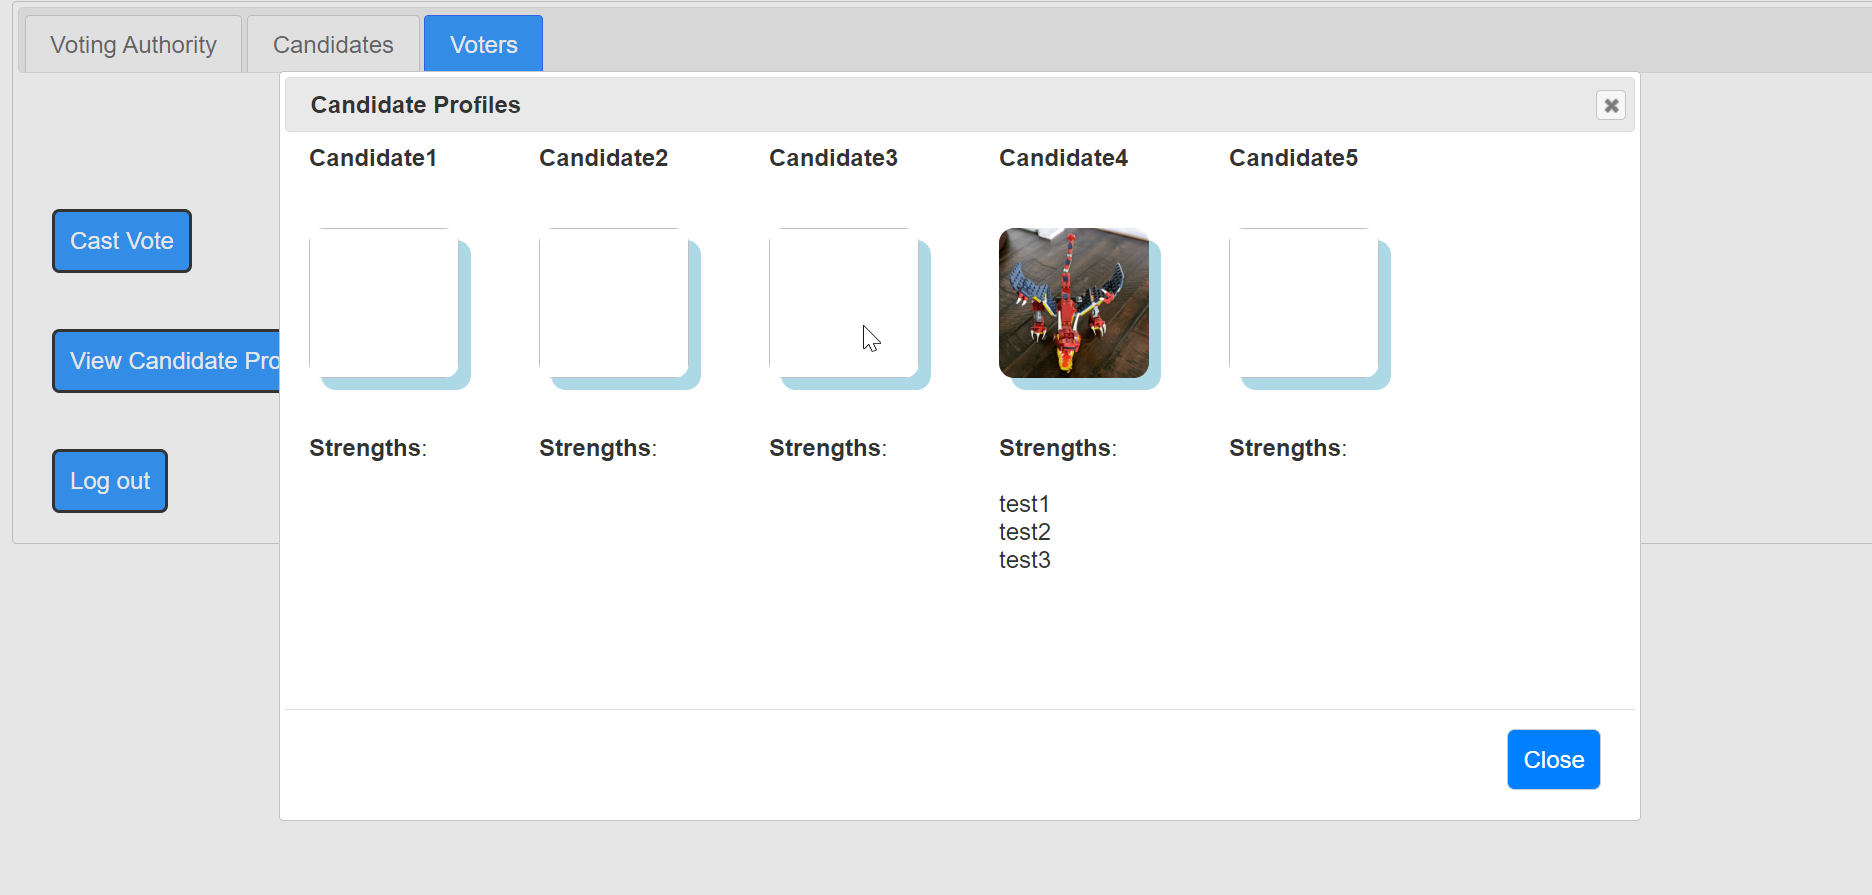
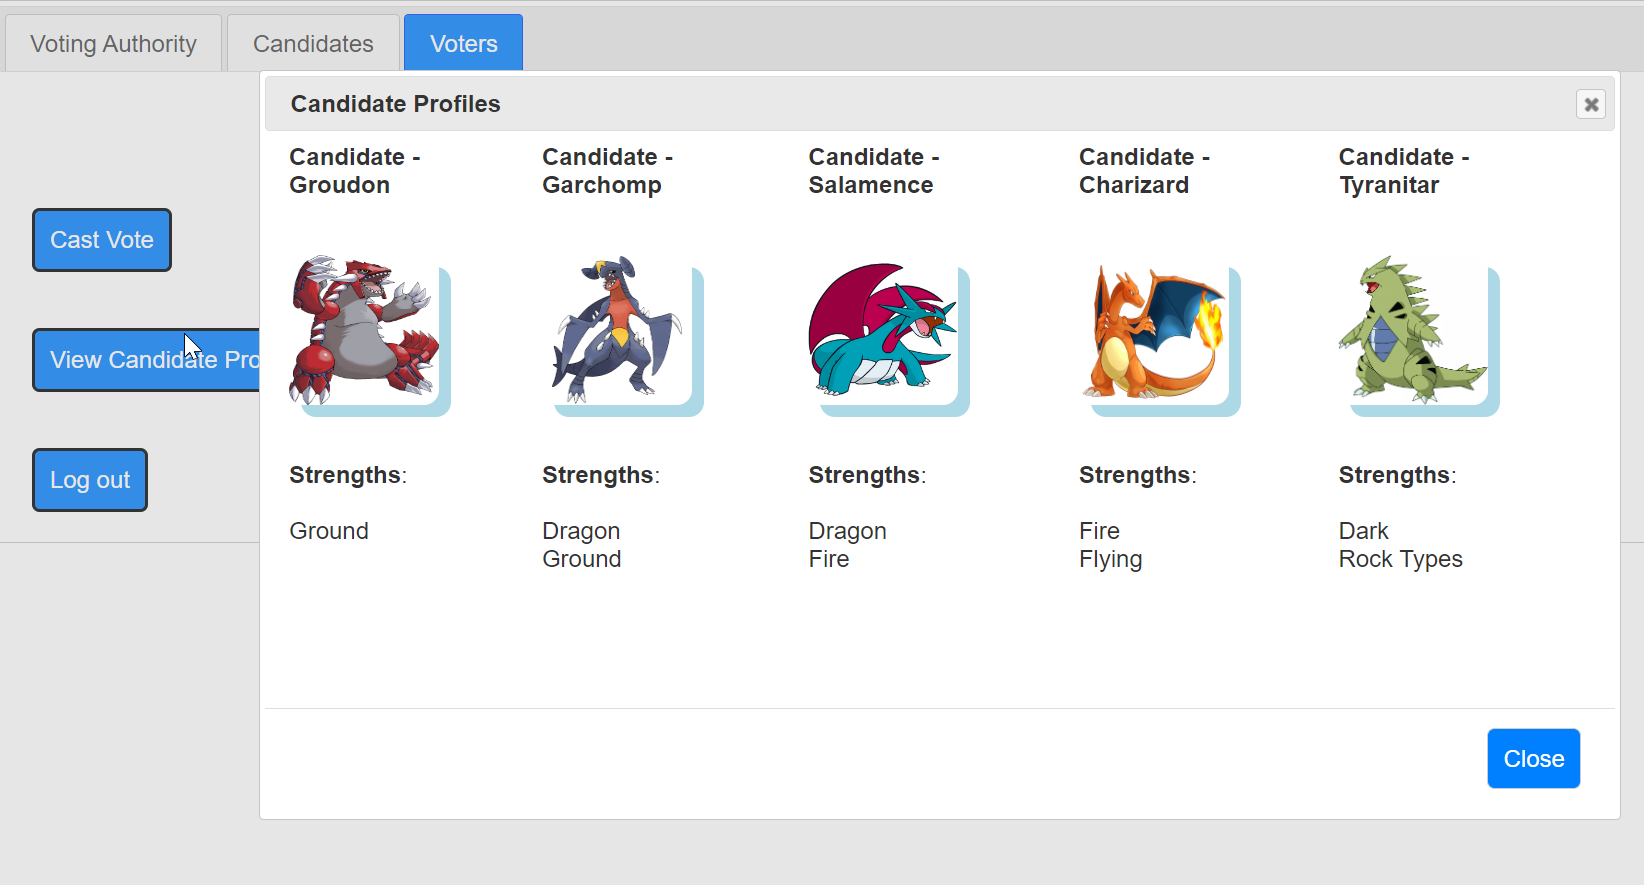
Updates to project repository. Added images, candidate names, candidate profile update feature

diff --git a/js/Candidate.js b/js/Candidate.js
@@ -19,7 +19,7 @@ async function GetCandidates() {
             await GetNumberOfVotes(candidate_json["CandidateAddress"]).then(function(data){
                 console.log("Number of votes returned - " + data);
                 //CandidateVotes.push({ "label": candidate_json["CandidateAddress"], "y": Number(data), "indexLabel": data});
-                CandidateVotes.push({ "label": "Candidate"+candidateCount, "y": Number(data), "indexLabel": data});
+                CandidateVotes.push({ "label": candidate_json["CandidateName"], "y": Number(data), "indexLabel": data});
             });
             
             
@@ -56,9 +56,11 @@ function DisplayGraph(CandidateVotes){
 
     var options = {
         animationEnabled: true,
+        theme: "light2",
         title: {
             text: "Voting Results",                
-            fontColor: "#212121"
+            //fontColor: "#212121"
+            //fontColor: "#a9a9a9"
         },	
         axisY: {
             tickThickness: 0,
@@ -99,8 +101,10 @@ function candidateLogin(){
 
         if (localStorage.getItem(candidateAddress + "_Voter")) {
             //user is a registered voter, take them to the voter options
+            $("#candidatePrivateKey").val("");
             $("#candidateLogin").fadeOut(1000);            
             $("#candidateActions").fadeIn(3000);
+            
 
         } else {
             alert("Candidate is not registered!");
@@ -119,15 +123,18 @@ function UpdateProfile(){
     var candidateJson = JSON.parse(localStorage.getItem(candidateAddress + "_Candidate"))[0];
     var candidatePhotoLocation = $("#candidateProfilePhoto").val();
     var candidateStrengthsValue = $("#candidateProfileStrengths").val();
+    var candidateNamevalue = $("#candidateName").val();
 
     candidateJson.CandidatePhoto = candidatePhotoLocation;
     candidateJson.CandidateStrengths = candidateStrengthsValue;
+    candidateJson.CandidateName = candidateNamevalue;
 
     var candidateJsonString = JSON.stringify([candidateJson]);
     
     localStorage.setItem(candidateAddress+"_Candidate", candidateJsonString);
     $("#candidateProfilePhoto").val("");
     $("#candidateProfileStrengths").val("");
+    $("#candidateName").val("");
 
     $("#CandidateProfile").dialog("close");
 
@@ -135,6 +142,7 @@ function UpdateProfile(){
 
 function UpdateCandidateProfile(){
     $("#CandidateProfile").dialog("open");
+    GetCandidateInformation(candidateAddress);
 }
 
 function LogOutCandidate(){
@@ -143,5 +151,13 @@ function LogOutCandidate(){
     $("#candidateLogin").fadeIn(3000);            
     
 
+}
+
+function GetCandidateInformation(address){
+    var candidateJson = JSON.parse(localStorage.getItem(address + "_Candidate"))[0];
+
+    $("#candidateProfilePhoto").val(candidateJson.CandidatePhoto);
+    $("#candidateProfileStrengths").val(candidateJson.CandidateStrengths);
+    $("#candidateName").val(candidateJson.CandidateName);
 }
 

diff --git a/js/Voter.js b/js/Voter.js
@@ -55,6 +55,7 @@ function voterLogin() {
 
     } catch (exception) {
         alert("Error occured" + exception);
+        $("#voterPrivateKey").val("");
 
 
     }
@@ -134,9 +135,9 @@ function GetCandidatesFromLocal() {
             var strengthshtml = strengthstext.replaceAll("\n", "<br>");
 
             //create a div for each candidate and append it to the parent div
-            html = "<div style='float:left'><span><strong>Candidate" + candidateCounter + "</strong></span><br><br><br>";
+            html = "<div style='float:left'><span><strong>Candidate - " + candidateJson["CandidateName"] + "</strong></span><br><br><br>";
             //appending the candidate photo
-            html = html + "<img src='" + candidateJson["CandidatePhoto"] + "' style='width:100px;height:100px'/><br><br><br>";
+            html = html + "<img src='" + candidateJson["CandidatePhoto"] + "'/><br><br><br>";
             html = html + "<span><strong>Strengths</strong>: <br><br><span>" + strengthshtml + "</span></span>";
             html = html + "</div><div>&nbsp;&nbsp;&nbsp;&nbsp;&nbsp;&nbsp;&nbsp;&nbsp;&nbsp;&nbsp;&nbsp;&nbsp;</div>";
 

diff --git a/html/index.html b/html/index.html
@@ -65,6 +65,8 @@
                 <button id="btnCandidateLogOut" onclick="LogOutCandidate()">Log Out</button>
             </div>
             <div id="CandidateProfile" style="display:none;">
+                <label>Candidate Name: </label><br><br>
+                <input type="text" id="candidateName" placeholder="Please provide a name" required></input><br><br><br><br>
                 <label>Candidate Photo: </label><br><br>
                 <input type="text" id="candidateProfilePhoto" placeholder="Please provide the location of the Candidate photo"></input><br><br><br><br>
                 <label>Candidate Strengths: </label><br><br><textarea id="candidateProfileStrengths"></textarea><br><br>

diff --git a/css/index_main.css b/css/index_main.css
@@ -38,8 +38,16 @@ label span{
 }
 
 img{
+    width: 100px;
+    height: 100px;   
     border-radius: 10px;
     box-shadow: 8px 8px lightblue;
+    transition: width 2s, height 4s;
     
     
+}
+
+img:hover{
+    width: 150px;
+    height: 150px;
 }
